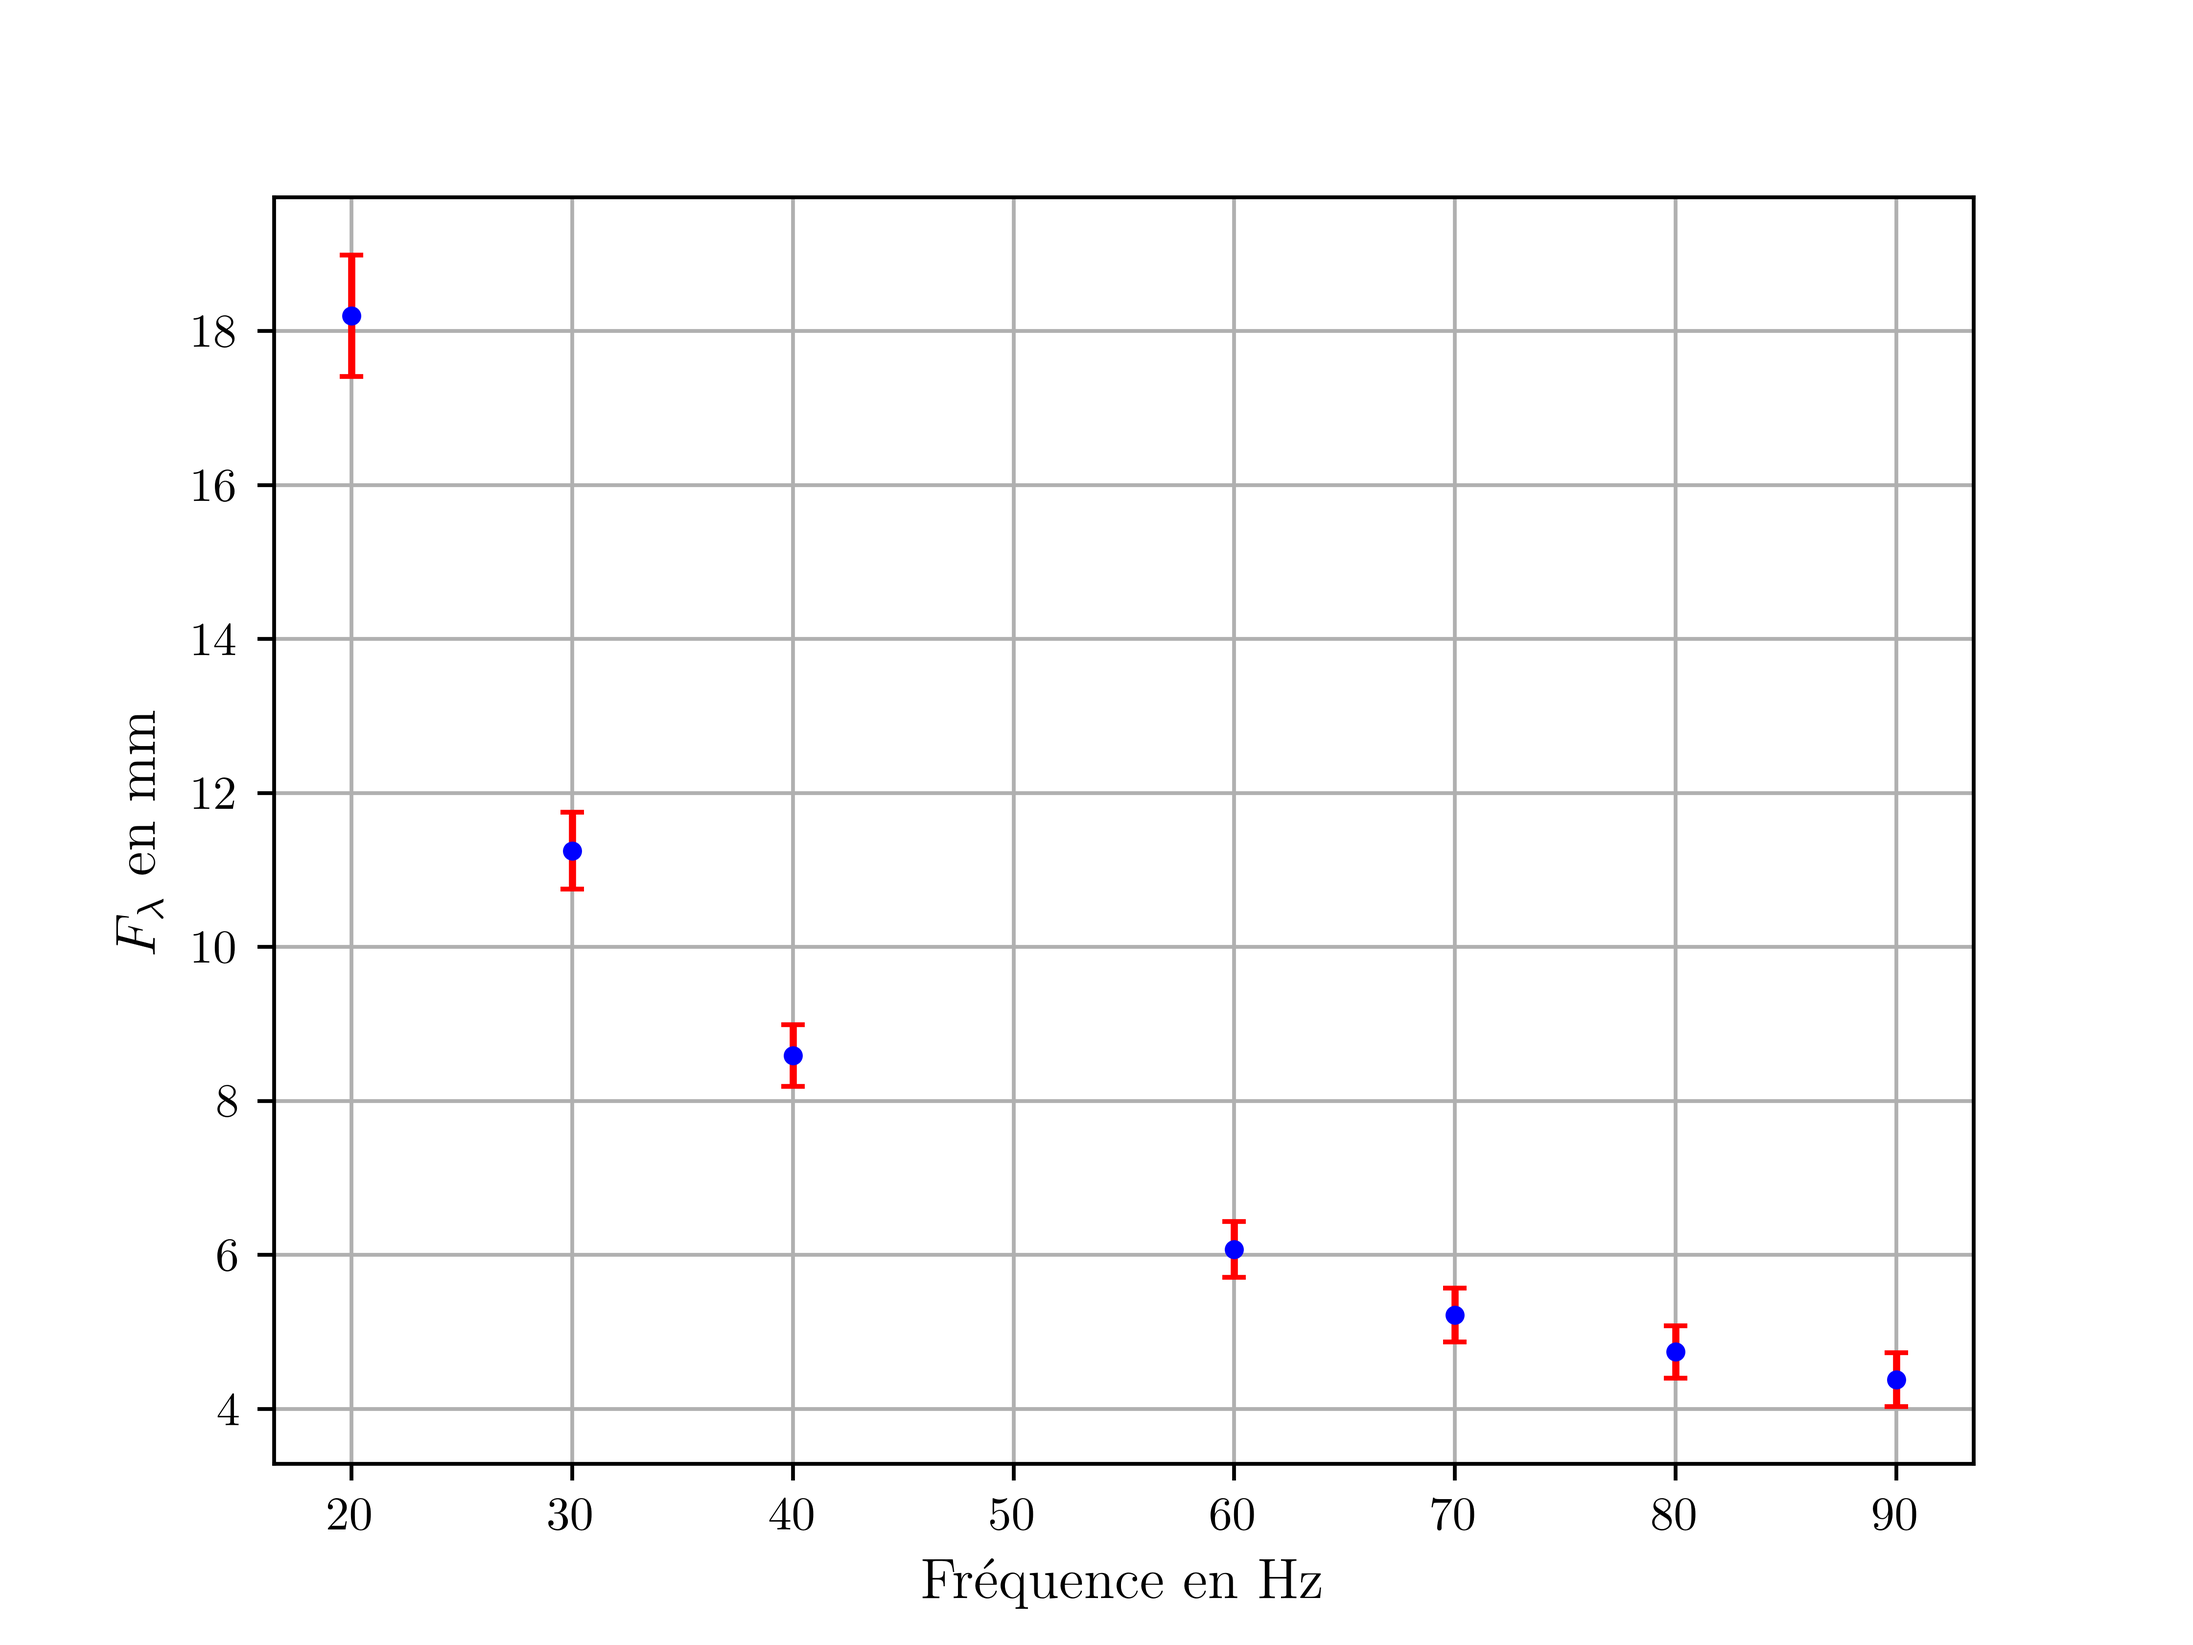
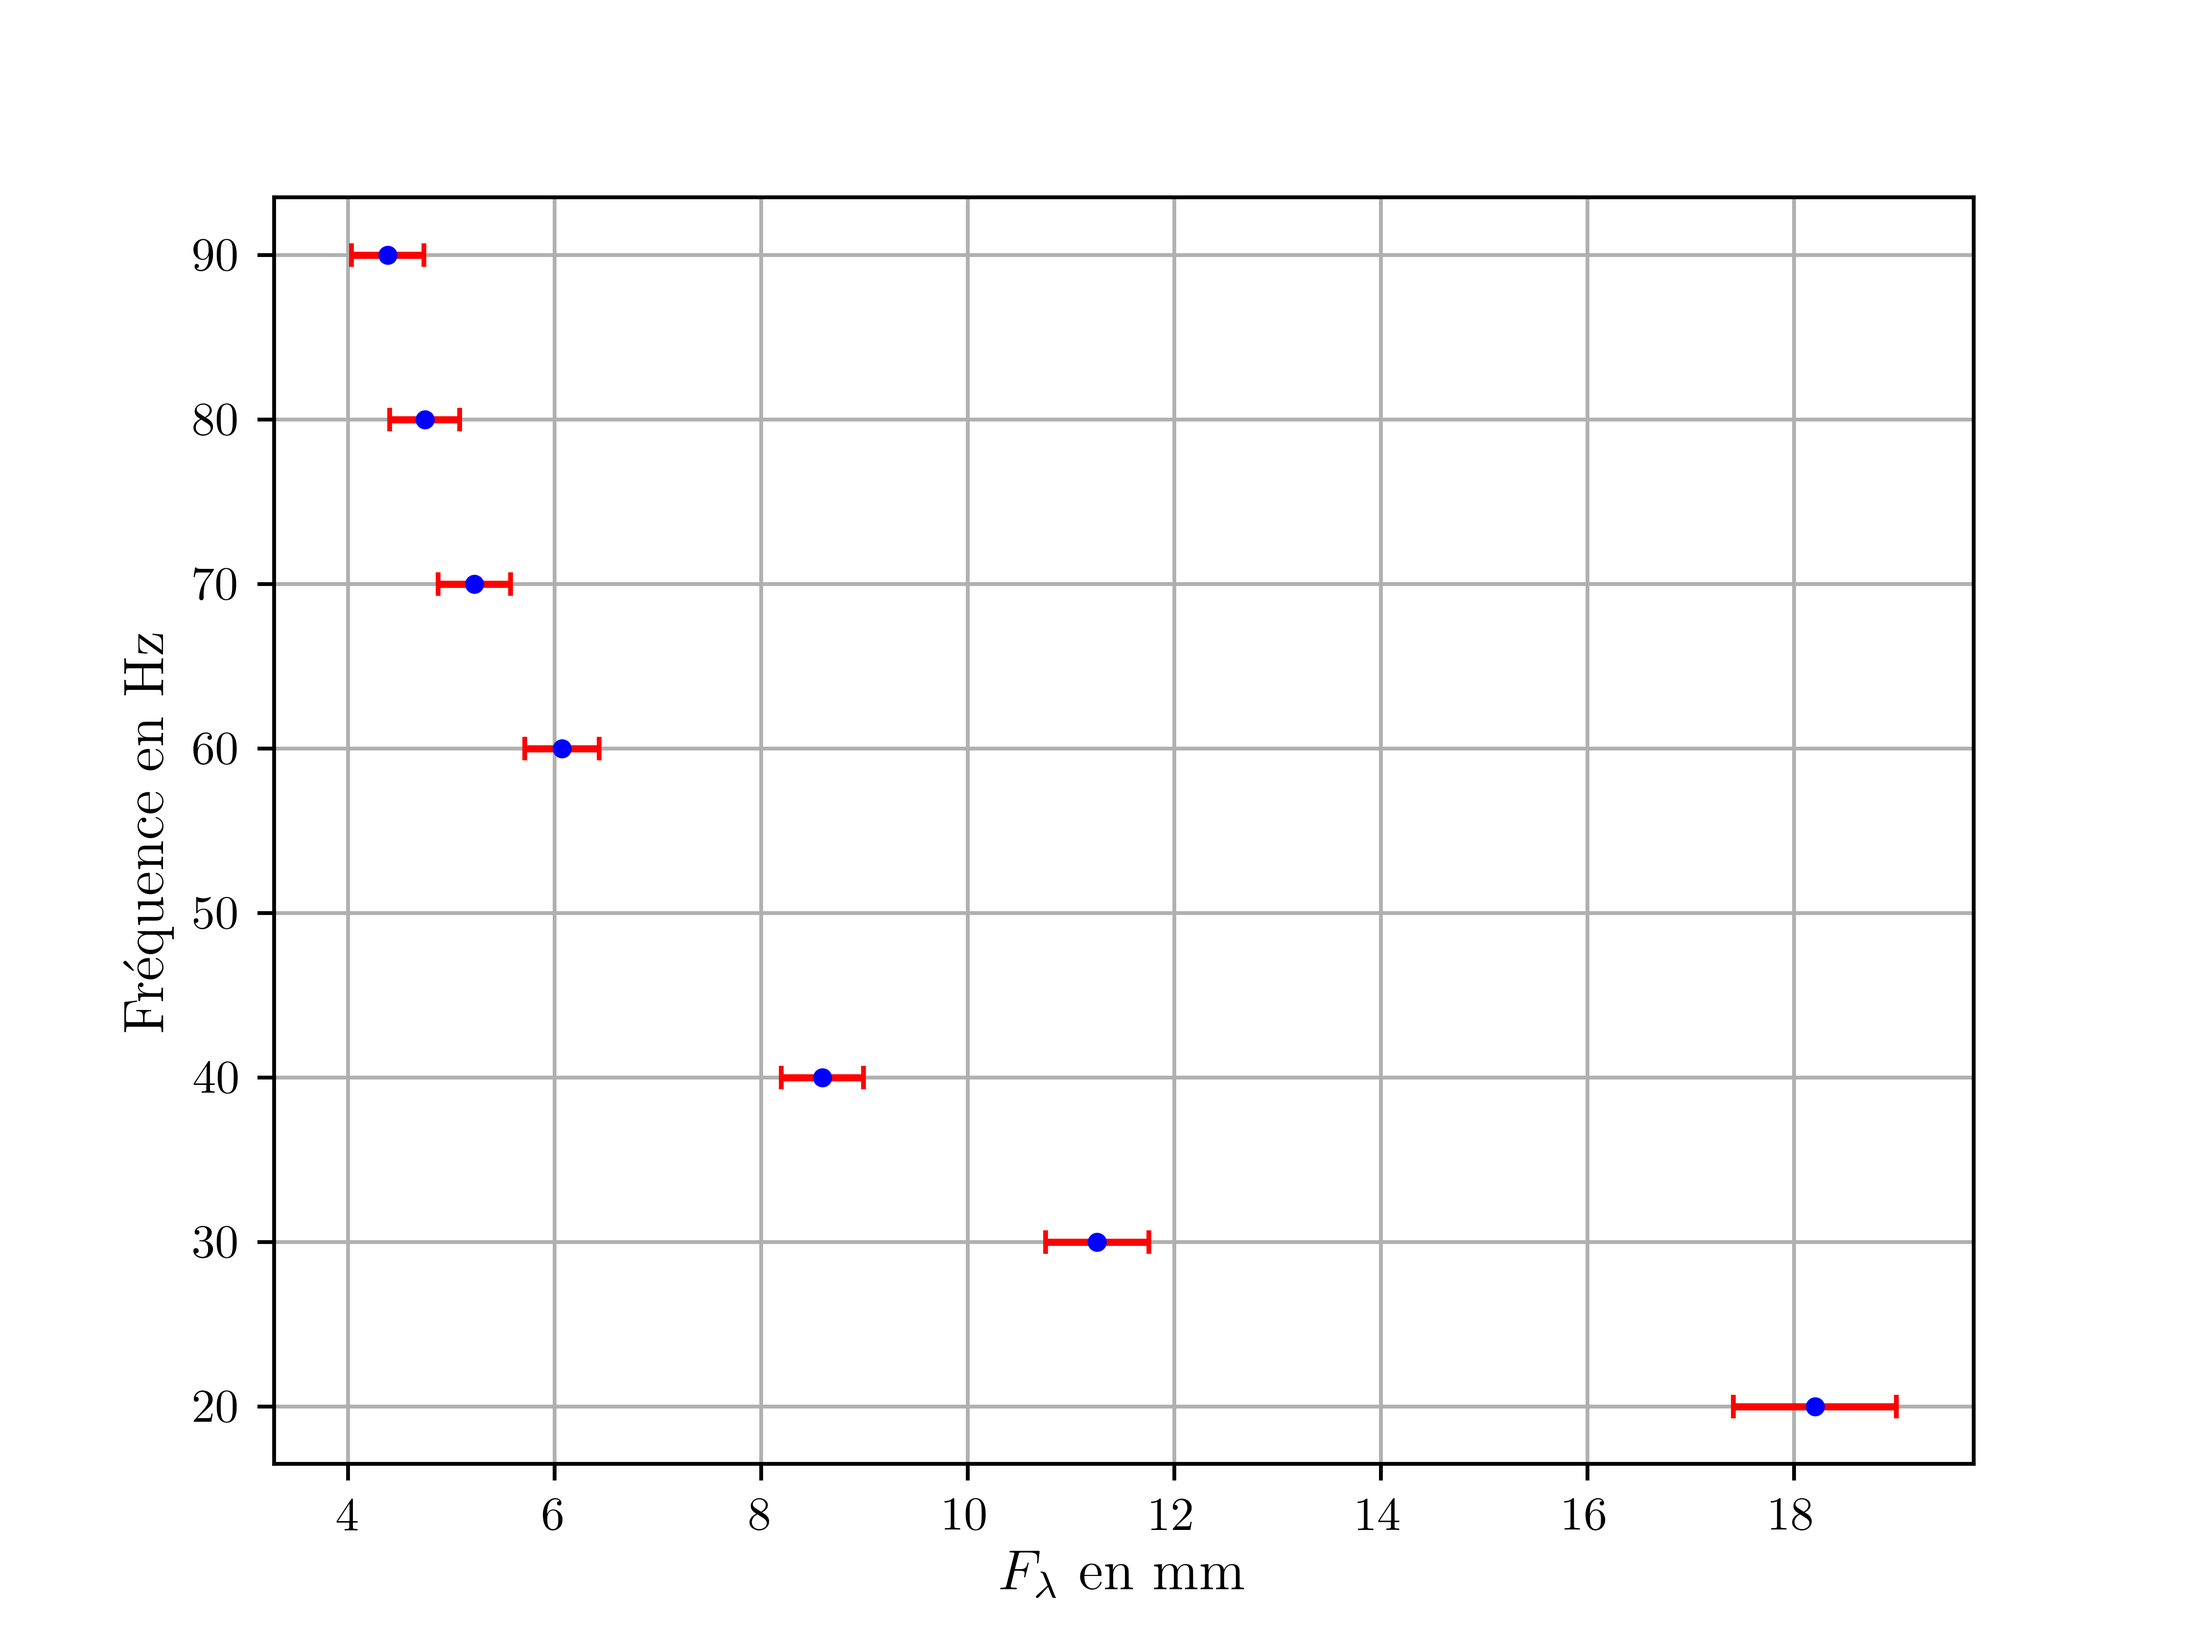
sam. 23 mars 18:28

diff --git a/Data/graphs/Lambda.py b/Data/graphs/Lambda.py
@@ -33,14 +33,14 @@ grid = plt.grid;
 
 Data = load("./lambda_yohan.txt");
 
-X	= Data[:,0];
-Y	= Data[:,1];
-Y_error	= Data[:,2];
+X	= Data[:,1];
+Y	= Data[:,0];
+X_error	= Data[:,2];
 
-set_xlabel(r'Fréquence en Hz', fontsize=12)
-set_ylabel(r'${F_\lambda}$ en mm', fontsize=12)
+set_ylabel(r'Fréquence en Hz', fontsize=12)
+set_xlabel(r'${F_\lambda}$ en mm', fontsize=12)
 
-error(X, Y, yerr=Y_error, fmt='.', ecolor='red',color='blue', capsize=2.5);
+error(X, Y, xerr=X_error, fmt='.', ecolor='red',color='blue', capsize=2.5);
 
 grid(True);
 plt.savefig('lambda_f.png', dpi=700);
